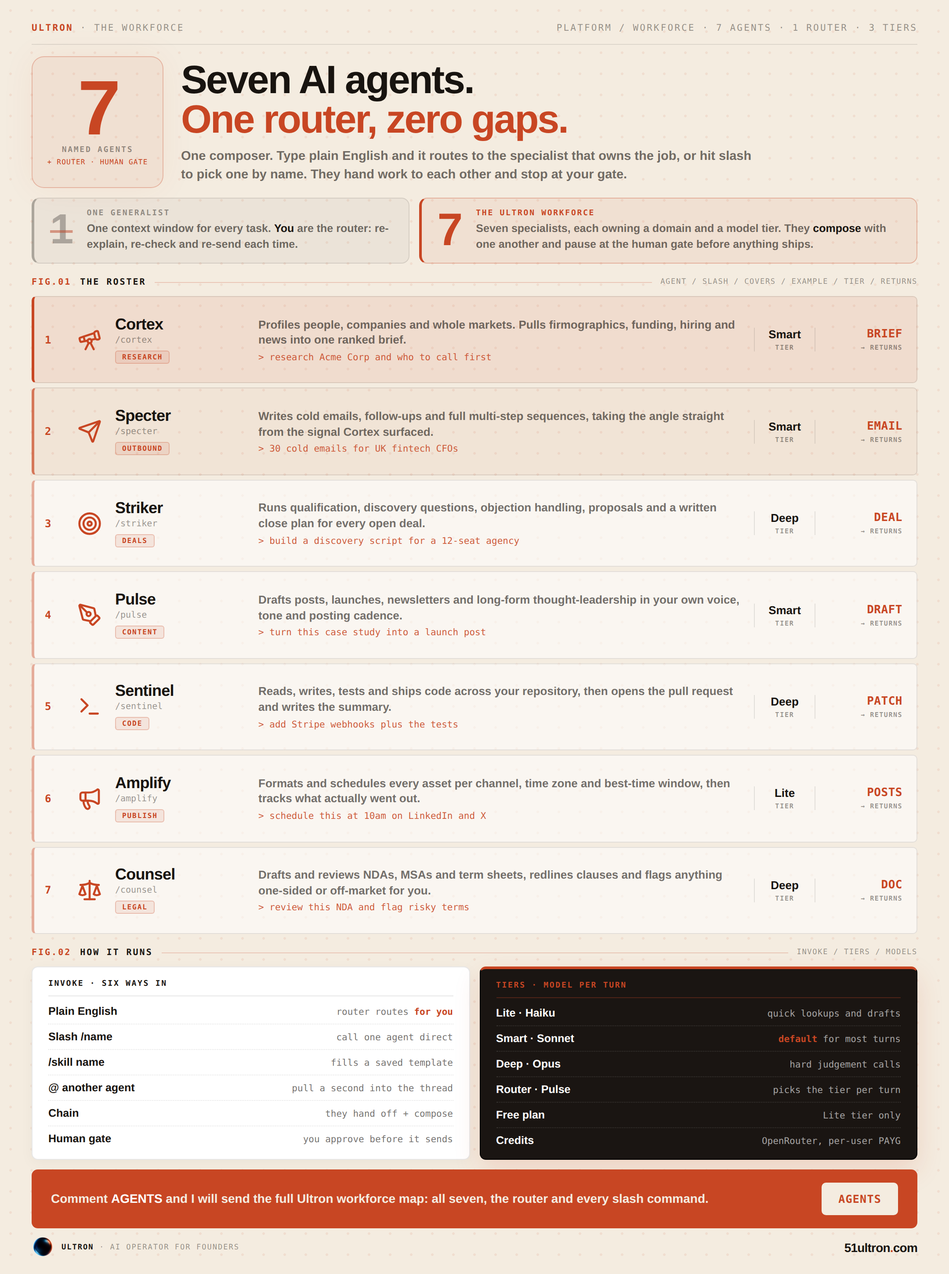
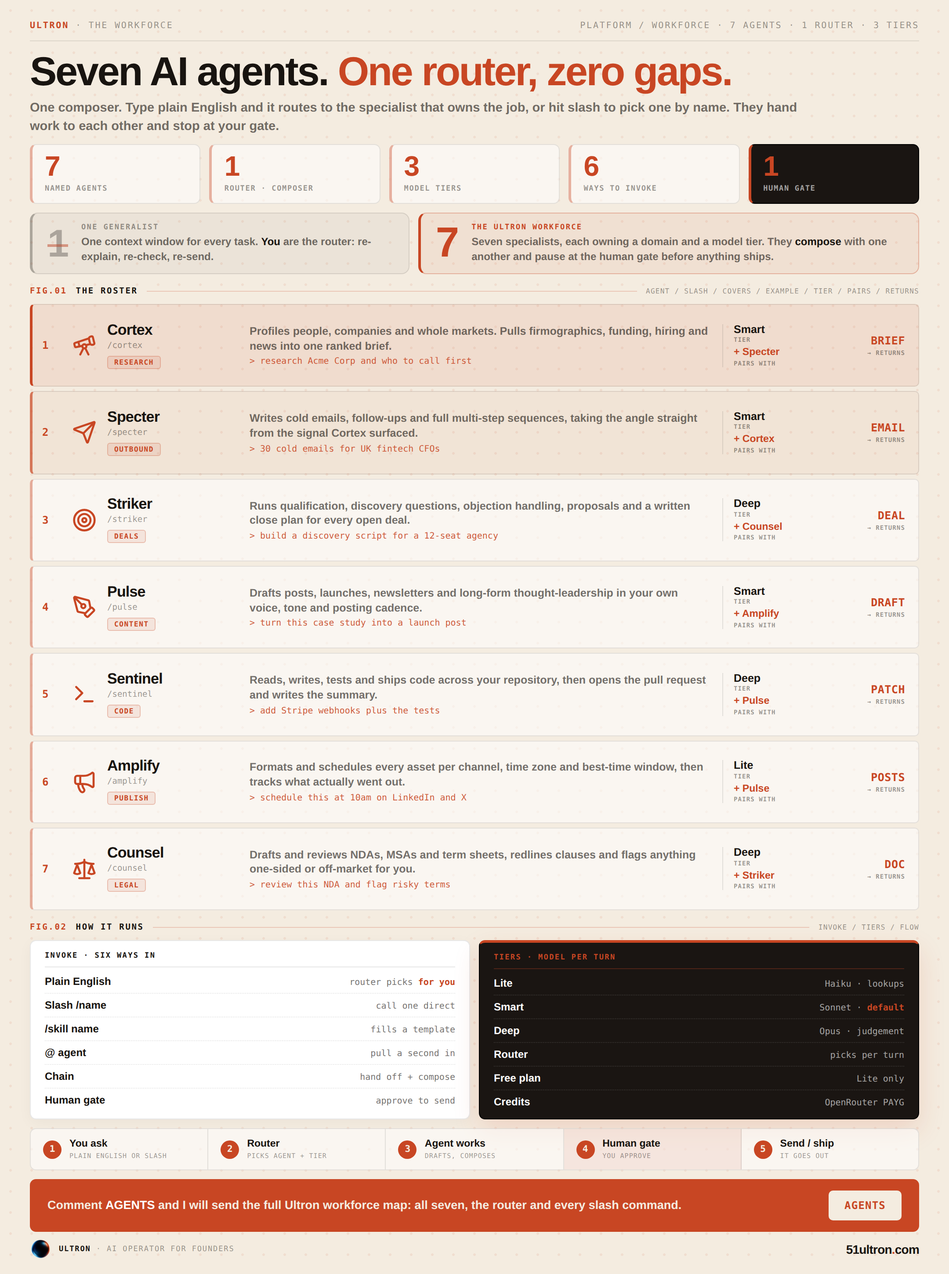
docs-04 workforce: max-density pass + align CLAUDE.md to 7-agent roster
Dashboard density (operator request):
- stat-tiles band under the hook (7 agents / 1 router / 3 tiers / 6 ways in / human gate)
- third FIG.02 element: full-width flow strip (ask > router > agent > human gate > send)
- extra per-row column: tier + pairs-with, beside returns
Same fixed boxes, 1080x1450, scrollHeight verified 1450, no forbidden chars.

CLAUDE.md alignment (operator-confirmed the seven-agent workforce doc is canonical):
- section 1 rewritten: seven agents with slash commands and roles, the router/
  composer, human gate, and Lite/Smart/Deep = Haiku/Sonnet/Opus tiers; PULSE is
  now content, the router does routing/model selection (supersedes old 5-agent list)
- section 5 campaign agent list and section 21 tool-name list extended to all seven

https://claude.ai/code/session_018fS7xMwDiJUxoNS3zo3BKw

diff --git a/content/docs-04-workforce-linkedin-dashboard.html b/content/docs-04-workforce-linkedin-dashboard.html
@@ -3,128 +3,132 @@
 <style>
 :root{--cream:#F4ECE0;--ink:#181410;--ink60:rgba(24,20,16,.62);--ink42:rgba(24,20,16,.44);--ink30:rgba(24,20,16,.3);--ink10:rgba(24,20,16,.1);--or:#C84623;--dark:#1a1512;}
 *{box-sizing:border-box;margin:0;padding:0;}body{background:#d9cdb8;font-family:'DM Sans',sans-serif;}
-.canvas{width:1080px;height:1450px;background:radial-gradient(rgba(200,70,35,.09) 1.4px,transparent 1.5px) 0 0/24px 24px,var(--cream);padding:26px 36px 18px;display:flex;flex-direction:column;color:var(--ink);overflow:hidden;position:relative;}
-.hd{flex-shrink:0;display:flex;justify-content:space-between;font-family:'DM Mono',monospace;font-size:10.5px;font-weight:500;letter-spacing:.15em;text-transform:uppercase;color:var(--ink42);padding-bottom:12px;border-bottom:1px solid var(--ink10);}
+.canvas{width:1080px;height:1450px;background:radial-gradient(rgba(200,70,35,.09) 1.4px,transparent 1.5px) 0 0/24px 24px,var(--cream);padding:24px 34px 16px;display:flex;flex-direction:column;color:var(--ink);overflow:hidden;position:relative;}
+.hd{flex-shrink:0;display:flex;justify-content:space-between;font-family:'DM Mono',monospace;font-size:10px;font-weight:500;letter-spacing:.14em;text-transform:uppercase;color:var(--ink42);padding-bottom:11px;border-bottom:1px solid var(--ink10);}
 .hd b{color:var(--or);font-weight:700;}
-.top{flex-shrink:0;display:flex;gap:20px;align-items:center;margin:13px 0 11px;}
-.stat-anchor{flex-shrink:0;width:150px;height:150px;display:flex;flex-direction:column;align-items:center;justify-content:center;background:rgba(200,70,35,.07);border:1.5px solid rgba(200,70,35,.28);border-radius:14px;box-shadow:0 0 40px rgba(200,70,35,.06);}
-.sa-num{font-weight:900;font-size:88px;color:var(--or);line-height:.78;letter-spacing:-4px;}
-.sa-label{font-family:'DM Mono',monospace;font-size:9px;font-weight:700;letter-spacing:.15em;text-transform:uppercase;color:var(--ink42);margin-top:9px;}
-.sa-sub{font-family:'DM Mono',monospace;font-size:8px;font-weight:500;letter-spacing:.08em;text-transform:uppercase;color:var(--or);margin-top:4px;}
-.hook{font-weight:900;font-size:45px;line-height:1.0;letter-spacing:-1.6px;}.hook .ac{color:var(--or);}
-.hook-sub{margin-top:10px;font-size:14.5px;font-weight:600;line-height:1.45;color:var(--ink60);max-width:660px;}
-.ba{flex-shrink:0;display:grid;grid-template-columns:1fr 1.32fr;gap:11px;margin-bottom:11px;}
-.ba-side{padding:12px 18px;border-radius:9px;display:flex;align-items:center;gap:16px;}
+.top{flex-shrink:0;margin:12px 0 10px;}
+.hook{font-weight:900;font-size:46px;line-height:.98;letter-spacing:-1.7px;}.hook .ac{color:var(--or);}
+.hook-sub{margin-top:9px;font-size:14.5px;font-weight:600;line-height:1.42;color:var(--ink60);max-width:880px;}
+.tiles{flex-shrink:0;display:grid;grid-template-columns:repeat(5,1fr);gap:10px;margin-bottom:10px;}
+.tile{background:rgba(255,255,255,.55);border:1px solid var(--ink10);border-left:3px solid rgba(200,70,35,.4);border-radius:7px;padding:11px 14px;}
+.tile.hot{background:var(--dark);border-color:#000;border-left-color:var(--or);}
+.tile-n{font-weight:900;font-size:32px;color:var(--or);line-height:.85;letter-spacing:-1.5px;}
+.tile-l{font-family:'DM Mono',monospace;font-size:8.5px;font-weight:700;letter-spacing:.1em;text-transform:uppercase;color:var(--ink42);margin-top:7px;}
+.tile.hot .tile-l{color:rgba(255,255,255,.6);}
+.ba{flex-shrink:0;display:grid;grid-template-columns:1fr 1.32fr;gap:10px;margin-bottom:10px;}
+.ba-side{padding:11px 17px;border-radius:9px;display:flex;align-items:center;gap:15px;}
 .ba-before{background:rgba(24,20,16,.04);border:1px solid var(--ink10);border-left:3px solid var(--ink30);}
 .ba-after{background:rgba(200,70,35,.07);border:1.5px solid rgba(200,70,35,.3);border-left:3px solid var(--or);}
 .ba-stat{font-weight:900;line-height:.85;letter-spacing:-1px;flex-shrink:0;}
-.ba-before .ba-stat{font-size:48px;color:var(--ink30);text-decoration:line-through;text-decoration-color:rgba(190,70,40,.5);text-decoration-thickness:3px;}
-.ba-after .ba-stat{font-size:52px;color:var(--or);}
-.ba-label{font-family:'DM Mono',monospace;font-size:9px;font-weight:700;letter-spacing:.15em;text-transform:uppercase;margin-bottom:4px;}
+.ba-before .ba-stat{font-size:44px;color:var(--ink30);text-decoration:line-through;text-decoration-color:rgba(190,70,40,.5);text-decoration-thickness:3px;}
+.ba-after .ba-stat{font-size:48px;color:var(--or);}
+.ba-label{font-family:'DM Mono',monospace;font-size:8.5px;font-weight:700;letter-spacing:.14em;text-transform:uppercase;margin-bottom:3px;}
 .ba-before .ba-label{color:var(--ink42);}.ba-after .ba-label{color:var(--or);}
-.ba-line{font-size:12.5px;font-weight:600;line-height:1.4;color:var(--ink60);}.ba-line b{color:var(--ink);font-weight:800;}
-.stage{flex-shrink:0;display:flex;align-items:center;gap:10px;height:20px;margin-bottom:6px;}
-.stage-n{font-family:'DM Mono',monospace;font-size:10px;font-weight:700;letter-spacing:.15em;text-transform:uppercase;color:var(--or);}
-.stage-t{font-family:'DM Mono',monospace;font-size:10px;font-weight:700;letter-spacing:.15em;text-transform:uppercase;color:var(--ink);}
+.ba-line{font-size:12px;font-weight:600;line-height:1.36;color:var(--ink60);}.ba-line b{color:var(--ink);font-weight:800;}
+.stage{flex-shrink:0;display:flex;align-items:center;gap:10px;height:18px;margin-bottom:6px;}
+.stage-n{font-family:'DM Mono',monospace;font-size:9.5px;font-weight:700;letter-spacing:.14em;text-transform:uppercase;color:var(--or);}
+.stage-t{font-family:'DM Mono',monospace;font-size:9.5px;font-weight:700;letter-spacing:.14em;text-transform:uppercase;color:var(--ink);}
 .stage-line{flex:1;height:1px;background:rgba(200,70,35,.22);}
-.stage-meta{font-family:'DM Mono',monospace;font-size:8.5px;font-weight:500;letter-spacing:.1em;text-transform:uppercase;color:var(--ink42);}
+.stage-meta{font-family:'DM Mono',monospace;font-size:8px;font-weight:500;letter-spacing:.08em;text-transform:uppercase;color:var(--ink42);}
 .roster{flex:1;display:flex;flex-direction:column;gap:5px;min-height:0;}
-.conn{flex:1;display:grid;grid-template-columns:24px 30px 150px 1fr 70px 86px;align-items:center;gap:13px;padding:0 16px 0 12px;background:rgba(255,255,255,.55);border:1px solid var(--ink10);border-left:3px solid rgba(200,70,35,.42);border-radius:5px;min-height:0;overflow:hidden;}
+.conn{flex:1;display:grid;grid-template-columns:22px 28px 150px 1fr 116px 80px;align-items:center;gap:12px;padding:0 15px 0 11px;background:rgba(255,255,255,.55);border:1px solid var(--ink10);border-left:3px solid rgba(200,70,35,.42);border-radius:5px;min-height:0;overflow:hidden;}
 .conn.hi{border-left-color:var(--or);background:rgba(200,70,35,.09);}.conn.hi2{border-left-color:rgba(200,70,35,.7);background:rgba(200,70,35,.05);}
 .conn-num{font-family:'DM Mono',monospace;font-size:12px;font-weight:700;color:var(--or);}
 .ci{width:28px;height:28px;display:flex;}.ci svg{width:100%;height:100%;}
 .conn-id{min-width:0;}
-.conn-name{font-size:18px;font-weight:800;letter-spacing:-.4px;color:var(--ink);line-height:1;}
-.conn-slash{font-family:'DM Mono',monospace;font-size:10px;font-weight:500;color:var(--ink42);margin-top:4px;}
-.conn-role{display:inline-block;font-family:'DM Mono',monospace;font-size:8px;font-weight:700;letter-spacing:.12em;text-transform:uppercase;color:var(--or);background:rgba(200,70,35,.1);border:1px solid rgba(200,70,35,.25);padding:2px 7px;border-radius:3px;margin-top:6px;}
+.conn-name{font-size:17px;font-weight:800;letter-spacing:-.4px;color:var(--ink);line-height:1;}
+.conn-slash{font-family:'DM Mono',monospace;font-size:9.5px;font-weight:500;color:var(--ink42);margin-top:4px;}
+.conn-role{display:inline-block;font-family:'DM Mono',monospace;font-size:8px;font-weight:700;letter-spacing:.1em;text-transform:uppercase;color:var(--or);background:rgba(200,70,35,.1);border:1px solid rgba(200,70,35,.25);padding:2px 7px;border-radius:3px;margin-top:6px;}
 .conn-body{min-width:0;}
-.conn-what{font-size:13px;font-weight:600;color:var(--ink60);line-height:1.36;}
-.conn-ex{font-family:'DM Mono',monospace;font-size:10.5px;font-weight:500;color:rgba(200,70,35,.88);margin-top:5px;white-space:nowrap;overflow:hidden;text-overflow:ellipsis;}
-.conn-ops{text-align:center;border-left:1px solid var(--ink10);border-right:1px solid var(--ink10);padding:0 4px;}
-.ops-tier{font-size:13px;font-weight:800;color:var(--ink);}
-.ops-tlab{font-family:'DM Mono',monospace;font-size:7.5px;font-weight:600;letter-spacing:.12em;text-transform:uppercase;color:var(--ink42);margin-top:3px;}
+.conn-what{font-size:12.5px;font-weight:600;color:var(--ink60);line-height:1.34;}
+.conn-ex{font-family:'DM Mono',monospace;font-size:10px;font-weight:500;color:rgba(200,70,35,.88);margin-top:4px;white-space:nowrap;overflow:hidden;text-overflow:ellipsis;}
+.conn-ops{display:flex;flex-direction:column;gap:5px;border-left:1px solid var(--ink10);padding-left:12px;min-width:0;}
+.ops-row{display:flex;flex-direction:column;}
+.ops-v{font-size:12.5px;font-weight:800;color:var(--ink);line-height:1;}
+.ops-v.pair{color:var(--or);font-size:11.5px;}
+.ops-l{font-family:'DM Mono',monospace;font-size:7px;font-weight:600;letter-spacing:.08em;text-transform:uppercase;color:var(--ink42);margin-top:2px;}
 .conn-ret{text-align:right;}
-.ret-art{font-family:'DM Mono',monospace;font-size:13px;font-weight:700;color:var(--or);letter-spacing:.02em;}
-.ret-lab{font-family:'DM Mono',monospace;font-size:7.5px;font-weight:600;letter-spacing:.1em;text-transform:uppercase;color:var(--ink42);margin-top:3px;}
-.cfg-grid{flex-shrink:0;display:grid;grid-template-columns:1fr 1fr;gap:11px;}
-.cfg{border-radius:7px;padding:14px 18px;}
+.ret-art{font-family:'DM Mono',monospace;font-size:12.5px;font-weight:700;color:var(--or);letter-spacing:.02em;}
+.ret-lab{font-family:'DM Mono',monospace;font-size:7px;font-weight:600;letter-spacing:.08em;text-transform:uppercase;color:var(--ink42);margin-top:3px;}
+.cfg-grid{flex-shrink:0;display:grid;grid-template-columns:1fr 1fr;gap:10px;}
+.cfg{border-radius:7px;padding:12px 16px;}
 .cfg.lite{background:#fff;border:1px solid var(--ink10);box-shadow:0 4px 16px rgba(0,0,0,.04);}
 .cfg.hot{background:var(--dark);border:1px solid #000;border-top:3px solid var(--or);box-shadow:0 12px 30px rgba(200,70,35,.15);}
-.cfg-title{font-family:'DM Mono',monospace;font-size:9px;font-weight:700;letter-spacing:.15em;text-transform:uppercase;margin-bottom:10px;padding-bottom:8px;border-bottom:1px solid var(--ink10);}
+.cfg-title{font-family:'DM Mono',monospace;font-size:8.5px;font-weight:700;letter-spacing:.14em;text-transform:uppercase;margin-bottom:9px;padding-bottom:7px;border-bottom:1px solid var(--ink10);}
 .cfg.lite .cfg-title{color:var(--ink);}.cfg.hot .cfg-title{color:var(--or);border-bottom-color:rgba(200,70,35,.3);}
-.cfg-row{display:flex;align-items:baseline;justify-content:space-between;gap:10px;padding-bottom:7px;margin-bottom:7px;border-bottom:1px dotted var(--ink10);}
+.cfg-row{display:flex;align-items:baseline;justify-content:space-between;gap:10px;padding-bottom:6px;margin-bottom:6px;border-bottom:1px dotted var(--ink10);}
 .cfg-row:last-child{border-bottom:none;padding-bottom:0;margin-bottom:0;}
 .cfg.hot .cfg-row{border-bottom-color:rgba(255,255,255,.12);}
-.cfg-key{font-size:12.5px;font-weight:700;flex-shrink:0;}.cfg.lite .cfg-key{color:var(--ink);}.cfg.hot .cfg-key{color:#fff;}
-.cfg-val{font-family:'DM Mono',monospace;font-size:10.5px;font-weight:500;text-align:right;}.cfg.lite .cfg-val{color:var(--ink60);}.cfg.hot .cfg-val{color:rgba(255,255,255,.62);}
+.cfg-key{font-size:12px;font-weight:700;flex-shrink:0;}.cfg.lite .cfg-key{color:var(--ink);}.cfg.hot .cfg-key{color:#fff;}
+.cfg-val{font-family:'DM Mono',monospace;font-size:10px;font-weight:500;text-align:right;}.cfg.lite .cfg-val{color:var(--ink60);}.cfg.hot .cfg-val{color:rgba(255,255,255,.62);}
 .cfg-val b{color:var(--or);font-weight:700;}
-.cta{flex-shrink:0;background:var(--or);border-radius:7px;padding:15px 22px;display:flex;align-items:center;justify-content:space-between;gap:16px;margin-top:11px;}
-.cta-copy{font-size:14px;font-weight:700;color:var(--cream);line-height:1.4;}.cta-copy b{color:#fff;font-weight:900;}
-.cta-badge{font-family:'DM Mono',monospace;font-size:12.5px;font-weight:700;color:var(--or);background:var(--cream);padding:11px 19px;border-radius:5px;flex-shrink:0;letter-spacing:.05em;}
-.footer{flex-shrink:0;height:34px;display:flex;align-items:center;justify-content:space-between;padding-top:9px;}
-.fl{display:flex;align-items:center;gap:9px;}.fl img{width:25px;height:25px;border-radius:50%;}
-.ftx{font-family:'DM Mono',monospace;font-size:8.5px;font-weight:500;letter-spacing:.12em;text-transform:uppercase;color:var(--ink42);}.ftx b{color:var(--ink);font-weight:700;}
+.flow{flex-shrink:0;display:flex;align-items:stretch;background:rgba(255,255,255,.55);border:1px solid var(--ink10);border-radius:7px;overflow:hidden;margin-top:10px;}
+.flow-step{flex:1;padding:11px 14px;display:flex;align-items:center;gap:9px;border-right:1px solid var(--ink10);}
+.flow-step:last-child{border-right:none;}
+.flow-step.hot{background:rgba(200,70,35,.09);}
+.flow-num{width:21px;height:21px;border-radius:50%;background:var(--or);color:var(--cream);font-family:'DM Mono',monospace;font-size:10.5px;font-weight:700;display:flex;align-items:center;justify-content:center;flex-shrink:0;}
+.flow-tx{font-size:11.5px;font-weight:800;color:var(--ink);line-height:1.1;}
+.flow-tx span{display:block;font-family:'DM Mono',monospace;font-size:7.5px;font-weight:500;color:var(--ink42);text-transform:uppercase;letter-spacing:.07em;margin-top:3px;}
+.cta{flex-shrink:0;background:var(--or);border-radius:7px;padding:13px 20px;display:flex;align-items:center;justify-content:space-between;gap:16px;margin-top:10px;}
+.cta-copy{font-size:13.5px;font-weight:700;color:var(--cream);line-height:1.38;}.cta-copy b{color:#fff;font-weight:900;}
+.cta-badge{font-family:'DM Mono',monospace;font-size:12px;font-weight:700;color:var(--or);background:var(--cream);padding:10px 18px;border-radius:5px;flex-shrink:0;letter-spacing:.05em;}
+.footer{flex-shrink:0;height:32px;display:flex;align-items:center;justify-content:space-between;padding-top:8px;}
+.fl{display:flex;align-items:center;gap:9px;}.fl img{width:24px;height:24px;border-radius:50%;}
+.ftx{font-family:'DM Mono',monospace;font-size:8.5px;font-weight:500;letter-spacing:.11em;text-transform:uppercase;color:var(--ink42);}.ftx b{color:var(--ink);font-weight:700;}
 .furl{font-weight:900;font-size:14px;letter-spacing:-.4px;color:var(--ink);}.furl em{color:var(--or);font-style:normal;}
 </style></head><body>
 <div class="canvas" id="artifact">
   <div class="hd"><div><b>ULTRON</b> &middot; THE WORKFORCE</div><div>PLATFORM / WORKFORCE &middot; 7 AGENTS &middot; 1 ROUTER &middot; 3 TIERS</div></div>
-  <div class="top">
-    <div class="stat-anchor"><div class="sa-num">7</div><div class="sa-label">Named agents</div><div class="sa-sub">+ router &middot; human gate</div></div>
-    <div><div class="hook">Seven AI agents.<br><span class="ac">One router, zero gaps.</span></div>
-      <div class="hook-sub">One composer. Type plain English and it routes to the specialist that owns the job, or hit slash to pick one by name. They hand work to each other and stop at your gate.</div></div>
-  </div>
+  <div class="top"><div class="hook">Seven AI agents. <span class="ac">One router, zero gaps.</span></div>
+    <div class="hook-sub">One composer. Type plain English and it routes to the specialist that owns the job, or hit slash to pick one by name. They hand work to each other and stop at your gate.</div></div>
+  <div class="tiles"><div class="tile "><div class="tile-n">7</div><div class="tile-l">Named agents</div></div><div class="tile "><div class="tile-n">1</div><div class="tile-l">Router &middot; composer</div></div><div class="tile "><div class="tile-n">3</div><div class="tile-l">Model tiers</div></div><div class="tile "><div class="tile-n">6</div><div class="tile-l">Ways to invoke</div></div><div class="tile hot"><div class="tile-n">1</div><div class="tile-l">Human gate</div></div></div>
   <div class="ba">
-    <div class="ba-side ba-before"><div class="ba-stat">1</div><div><div class="ba-label">One generalist</div><div class="ba-line">One context window for every task. <b>You</b> are the router: re-explain, re-check and re-send each time.</div></div></div>
+    <div class="ba-side ba-before"><div class="ba-stat">1</div><div><div class="ba-label">One generalist</div><div class="ba-line">One context window for every task. <b>You</b> are the router: re-explain, re-check, re-send.</div></div></div>
     <div class="ba-side ba-after"><div class="ba-stat">7</div><div><div class="ba-label">The Ultron workforce</div><div class="ba-line">Seven specialists, each owning a domain and a model tier. They <b>compose</b> with one another and pause at the human gate before anything ships.</div></div></div>
   </div>
-  <div class="stage"><span class="stage-n">Fig.01</span><span class="stage-t">The roster</span><span class="stage-line"></span><span class="stage-meta">agent / slash / covers / example / tier / returns</span></div>
+  <div class="stage"><span class="stage-n">Fig.01</span><span class="stage-t">The roster</span><span class="stage-line"></span><span class="stage-meta">agent / slash / covers / example / tier / pairs / returns</span></div>
   <div class="roster"><div class="conn hi"><div class="conn-num">1</div>
       <div class="ci"><svg xmlns="http://www.w3.org/2000/svg" width="1em" height="1em" viewBox="0 0 24 24"><g fill="none" stroke="#C84623" stroke-linecap="round" stroke-linejoin="round" stroke-width="2"><path d="m10.065 12.493l-6.18 1.318a.934.934 0 0 1-1.108-.702l-.537-2.15a1.07 1.07 0 0 1 .691-1.265l13.504-4.44m-2.875 6.493l4.332-.924M16 21l-3.105-6.21"/><path d="M16.485 5.94a2 2 0 0 1 1.455-2.425l1.09-.272a1 1 0 0 1 1.212.727l1.515 6.06a1 1 0 0 1-.727 1.213l-1.09.272a2 2 0 0 1-2.425-1.455zM6.158 8.633l1.114 4.456M8 21l3.105-6.21"/><circle cx="12" cy="13" r="2"/></g></svg></div>
       <div class="conn-id"><div class="conn-name">Cortex</div><div class="conn-slash">/cortex</div><div class="conn-role">Research</div></div>
       <div class="conn-body"><div class="conn-what">Profiles people, companies and whole markets. Pulls firmographics, funding, hiring and news into one ranked brief.</div><div class="conn-ex">&gt; research Acme Corp and who to call first</div></div>
-      <div class="conn-ops"><div class="ops-tier">Smart</div><div class="ops-tlab">tier</div></div>
+      <div class="conn-ops"><div class="ops-row"><span class="ops-v">Smart</span><span class="ops-l">tier</span></div><div class="ops-row"><span class="ops-v pair">+ Specter</span><span class="ops-l">pairs with</span></div></div>
       <div class="conn-ret"><div class="ret-art">BRIEF</div><div class="ret-lab">&rarr; returns</div></div></div><div class="conn hi2"><div class="conn-num">2</div>
       <div class="ci"><svg xmlns="http://www.w3.org/2000/svg" width="1em" height="1em" viewBox="0 0 24 24"><path fill="none" stroke="#C84623" stroke-linecap="round" stroke-linejoin="round" stroke-width="2" d="M14.536 21.686a.5.5 0 0 0 .937-.024l6.5-19a.496.496 0 0 0-.635-.635l-19 6.5a.5.5 0 0 0-.024.937l7.93 3.18a2 2 0 0 1 1.112 1.11zm7.318-19.539l-10.94 10.939"/></svg></div>
       <div class="conn-id"><div class="conn-name">Specter</div><div class="conn-slash">/specter</div><div class="conn-role">Outbound</div></div>
       <div class="conn-body"><div class="conn-what">Writes cold emails, follow-ups and full multi-step sequences, taking the angle straight from the signal Cortex surfaced.</div><div class="conn-ex">&gt; 30 cold emails for UK fintech CFOs</div></div>
-      <div class="conn-ops"><div class="ops-tier">Smart</div><div class="ops-tlab">tier</div></div>
+      <div class="conn-ops"><div class="ops-row"><span class="ops-v">Smart</span><span class="ops-l">tier</span></div><div class="ops-row"><span class="ops-v pair">+ Cortex</span><span class="ops-l">pairs with</span></div></div>
       <div class="conn-ret"><div class="ret-art">EMAIL</div><div class="ret-lab">&rarr; returns</div></div></div><div class="conn "><div class="conn-num">3</div>
       <div class="ci"><svg xmlns="http://www.w3.org/2000/svg" width="1em" height="1em" viewBox="0 0 24 24"><g fill="none" stroke="#C84623" stroke-linecap="round" stroke-linejoin="round" stroke-width="2"><circle cx="12" cy="12" r="10"/><circle cx="12" cy="12" r="6"/><circle cx="12" cy="12" r="2"/></g></svg></div>
       <div class="conn-id"><div class="conn-name">Striker</div><div class="conn-slash">/striker</div><div class="conn-role">Deals</div></div>
       <div class="conn-body"><div class="conn-what">Runs qualification, discovery questions, objection handling, proposals and a written close plan for every open deal.</div><div class="conn-ex">&gt; build a discovery script for a 12-seat agency</div></div>
-      <div class="conn-ops"><div class="ops-tier">Deep</div><div class="ops-tlab">tier</div></div>
+      <div class="conn-ops"><div class="ops-row"><span class="ops-v">Deep</span><span class="ops-l">tier</span></div><div class="ops-row"><span class="ops-v pair">+ Counsel</span><span class="ops-l">pairs with</span></div></div>
       <div class="conn-ret"><div class="ret-art">DEAL</div><div class="ret-lab">&rarr; returns</div></div></div><div class="conn "><div class="conn-num">4</div>
       <div class="ci"><svg xmlns="http://www.w3.org/2000/svg" width="1em" height="1em" viewBox="0 0 24 24"><g fill="none" stroke="#C84623" stroke-linecap="round" stroke-linejoin="round" stroke-width="2"><path d="M15.707 21.293a1 1 0 0 1-1.414 0l-1.586-1.586a1 1 0 0 1 0-1.414l5.586-5.586a1 1 0 0 1 1.414 0l1.586 1.586a1 1 0 0 1 0 1.414z"/><path d="m18 13l-1.375-6.874a1 1 0 0 0-.746-.776L3.235 2.028a1 1 0 0 0-1.207 1.207L5.35 15.879a1 1 0 0 0 .776.746L13 18M2.3 2.3l7.286 7.286"/><circle cx="11" cy="11" r="2"/></g></svg></div>
       <div class="conn-id"><div class="conn-name">Pulse</div><div class="conn-slash">/pulse</div><div class="conn-role">Content</div></div>
       <div class="conn-body"><div class="conn-what">Drafts posts, launches, newsletters and long-form thought-leadership in your own voice, tone and posting cadence.</div><div class="conn-ex">&gt; turn this case study into a launch post</div></div>
-      <div class="conn-ops"><div class="ops-tier">Smart</div><div class="ops-tlab">tier</div></div>
+      <div class="conn-ops"><div class="ops-row"><span class="ops-v">Smart</span><span class="ops-l">tier</span></div><div class="ops-row"><span class="ops-v pair">+ Amplify</span><span class="ops-l">pairs with</span></div></div>
       <div class="conn-ret"><div class="ret-art">DRAFT</div><div class="ret-lab">&rarr; returns</div></div></div><div class="conn "><div class="conn-num">5</div>
       <div class="ci"><svg xmlns="http://www.w3.org/2000/svg" width="1em" height="1em" viewBox="0 0 24 24"><path fill="none" stroke="#C84623" stroke-linecap="round" stroke-linejoin="round" stroke-width="2" d="M12 19h8M4 17l6-6l-6-6"/></svg></div>
       <div class="conn-id"><div class="conn-name">Sentinel</div><div class="conn-slash">/sentinel</div><div class="conn-role">Code</div></div>
       <div class="conn-body"><div class="conn-what">Reads, writes, tests and ships code across your repository, then opens the pull request and writes the summary.</div><div class="conn-ex">&gt; add Stripe webhooks plus the tests</div></div>
-      <div class="conn-ops"><div class="ops-tier">Deep</div><div class="ops-tlab">tier</div></div>
+      <div class="conn-ops"><div class="ops-row"><span class="ops-v">Deep</span><span class="ops-l">tier</span></div><div class="ops-row"><span class="ops-v pair">+ Pulse</span><span class="ops-l">pairs with</span></div></div>
       <div class="conn-ret"><div class="ret-art">PATCH</div><div class="ret-lab">&rarr; returns</div></div></div><div class="conn "><div class="conn-num">6</div>
       <div class="ci"><svg xmlns="http://www.w3.org/2000/svg" width="1em" height="1em" viewBox="0 0 24 24"><g fill="none" stroke="#C84623" stroke-linecap="round" stroke-linejoin="round" stroke-width="2"><path d="M11 6a13 13 0 0 0 8.4-2.8A1 1 0 0 1 21 4v12a1 1 0 0 1-1.6.8A13 13 0 0 0 11 14H5a2 2 0 0 1-2-2V8a2 2 0 0 1 2-2z"/><path d="M6 14a12 12 0 0 0 2.4 7.2a2 2 0 0 0 3.2-2.4A8 8 0 0 1 10 14M8 6v8"/></g></svg></div>
       <div class="conn-id"><div class="conn-name">Amplify</div><div class="conn-slash">/amplify</div><div class="conn-role">Publish</div></div>
       <div class="conn-body"><div class="conn-what">Formats and schedules every asset per channel, time zone and best-time window, then tracks what actually went out.</div><div class="conn-ex">&gt; schedule this at 10am on LinkedIn and X</div></div>
-      <div class="conn-ops"><div class="ops-tier">Lite</div><div class="ops-tlab">tier</div></div>
+      <div class="conn-ops"><div class="ops-row"><span class="ops-v">Lite</span><span class="ops-l">tier</span></div><div class="ops-row"><span class="ops-v pair">+ Pulse</span><span class="ops-l">pairs with</span></div></div>
       <div class="conn-ret"><div class="ret-art">POSTS</div><div class="ret-lab">&rarr; returns</div></div></div><div class="conn "><div class="conn-num">7</div>
       <div class="ci"><svg xmlns="http://www.w3.org/2000/svg" width="1em" height="1em" viewBox="0 0 24 24"><g fill="none" stroke="#C84623" stroke-linecap="round" stroke-linejoin="round" stroke-width="2"><path d="M12 3v18m7-13l3 8a5 5 0 0 1-6 0zV7"/><path d="M3 7h1a17 17 0 0 0 8-2a17 17 0 0 0 8 2h1M5 8l3 8a5 5 0 0 1-6 0zV7m2 14h10"/></g></svg></div>
       <div class="conn-id"><div class="conn-name">Counsel</div><div class="conn-slash">/counsel</div><div class="conn-role">Legal</div></div>
       <div class="conn-body"><div class="conn-what">Drafts and reviews NDAs, MSAs and term sheets, redlines clauses and flags anything one-sided or off-market for you.</div><div class="conn-ex">&gt; review this NDA and flag risky terms</div></div>
-      <div class="conn-ops"><div class="ops-tier">Deep</div><div class="ops-tlab">tier</div></div>
+      <div class="conn-ops"><div class="ops-row"><span class="ops-v">Deep</span><span class="ops-l">tier</span></div><div class="ops-row"><span class="ops-v pair">+ Striker</span><span class="ops-l">pairs with</span></div></div>
       <div class="conn-ret"><div class="ret-art">DOC</div><div class="ret-lab">&rarr; returns</div></div></div></div>
-  <div class="stage" style="margin-top:11px;"><span class="stage-n">Fig.02</span><span class="stage-t">How it runs</span><span class="stage-line"></span><span class="stage-meta">invoke / tiers / models</span></div>
+  <div class="stage" style="margin-top:10px;"><span class="stage-n">Fig.02</span><span class="stage-t">How it runs</span><span class="stage-line"></span><span class="stage-meta">invoke / tiers / flow</span></div>
   <div class="cfg-grid">
-    <div class="cfg lite"><div class="cfg-title">Invoke &middot; six ways in</div><div class="cfg-row"><span class="cfg-key">Plain English</span><span class="cfg-val">router routes <b>for you</b></span></div><div class="cfg-row"><span class="cfg-key">Slash /name</span><span class="cfg-val">call one agent direct</span></div><div class="cfg-row"><span class="cfg-key">/skill name</span><span class="cfg-val">fills a saved template</span></div><div class="cfg-row"><span class="cfg-key">@ another agent</span><span class="cfg-val">pull a second into the thread</span></div><div class="cfg-row"><span class="cfg-key">Chain</span><span class="cfg-val">they hand off + compose</span></div><div class="cfg-row"><span class="cfg-key">Human gate</span><span class="cfg-val">you approve before it sends</span></div></div>
-    <div class="cfg hot"><div class="cfg-title">Tiers &middot; model per turn</div><div class="cfg-row"><span class="cfg-key">Lite &middot; Haiku</span><span class="cfg-val">quick lookups and drafts</span></div><div class="cfg-row"><span class="cfg-key">Smart &middot; Sonnet</span><span class="cfg-val"><b>default</b> for most turns</span></div><div class="cfg-row"><span class="cfg-key">Deep &middot; Opus</span><span class="cfg-val">hard judgement calls</span></div><div class="cfg-row"><span class="cfg-key">Router &middot; Pulse</span><span class="cfg-val">picks the tier per turn</span></div><div class="cfg-row"><span class="cfg-key">Free plan</span><span class="cfg-val">Lite tier only</span></div><div class="cfg-row"><span class="cfg-key">Credits</span><span class="cfg-val">OpenRouter, per-user PAYG</span></div></div>
+    <div class="cfg lite"><div class="cfg-title">Invoke &middot; six ways in</div><div class="cfg-row"><span class="cfg-key">Plain English</span><span class="cfg-val">router picks <b>for you</b></span></div><div class="cfg-row"><span class="cfg-key">Slash /name</span><span class="cfg-val">call one direct</span></div><div class="cfg-row"><span class="cfg-key">/skill name</span><span class="cfg-val">fills a template</span></div><div class="cfg-row"><span class="cfg-key">@ agent</span><span class="cfg-val">pull a second in</span></div><div class="cfg-row"><span class="cfg-key">Chain</span><span class="cfg-val">hand off + compose</span></div><div class="cfg-row"><span class="cfg-key">Human gate</span><span class="cfg-val">approve to send</span></div></div>
+    <div class="cfg hot"><div class="cfg-title">Tiers &middot; model per turn</div><div class="cfg-row"><span class="cfg-key">Lite</span><span class="cfg-val">Haiku &middot; lookups</span></div><div class="cfg-row"><span class="cfg-key">Smart</span><span class="cfg-val">Sonnet &middot; <b>default</b></span></div><div class="cfg-row"><span class="cfg-key">Deep</span><span class="cfg-val">Opus &middot; judgement</span></div><div class="cfg-row"><span class="cfg-key">Router</span><span class="cfg-val">picks per turn</span></div><div class="cfg-row"><span class="cfg-key">Free plan</span><span class="cfg-val">Lite only</span></div><div class="cfg-row"><span class="cfg-key">Credits</span><span class="cfg-val">OpenRouter PAYG</span></div></div>
   </div>
-  <div class="cta">
-    <div class="cta-copy">Comment <b>AGENTS</b> and I will send the full Ultron workforce map: all seven, the router and every slash command.</div>
-    <div class="cta-badge">AGENTS</div>
-  </div>
-  <div class="footer">
-    <div class="fl"><img src="__LOGO_URI__"><div class="ftx"><b>ULTRON</b> &middot; AI OPERATOR FOR FOUNDERS</div></div>
-    <div class="furl">51ultron<em>.</em>com</div>
-  </div>
+  <div class="flow"><div class="flow-step "><div class="flow-num">1</div><div class="flow-tx">You ask<span>plain english or slash</span></div></div><div class="flow-step "><div class="flow-num">2</div><div class="flow-tx">Router<span>picks agent + tier</span></div></div><div class="flow-step "><div class="flow-num">3</div><div class="flow-tx">Agent works<span>drafts, composes</span></div></div><div class="flow-step hot"><div class="flow-num">4</div><div class="flow-tx">Human gate<span>you approve</span></div></div><div class="flow-step "><div class="flow-num">5</div><div class="flow-tx">Send / ship<span>it goes out</span></div></div></div>
+  <div class="cta"><div class="cta-copy">Comment <b>AGENTS</b> and I will send the full Ultron workforce map: all seven, the router and every slash command.</div><div class="cta-badge">AGENTS</div></div>
+  <div class="footer"><div class="fl"><img src="__LOGO_URI__"><div class="ftx"><b>ULTRON</b> &middot; AI OPERATOR FOR FOUNDERS</div></div><div class="furl">51ultron<em>.</em>com</div></div>
 </div></body></html>

diff --git a/CLAUDE.md b/CLAUDE.md
@@ -36,14 +36,21 @@ These meta-rules sit above everything else in this file:
 
 **Founder & operator:** Tibi Serbaneci (CEO Ultron, NexityNetwork). Co-founder Catalin Fetean. InnovX accelerator cohort.
 
-**Five Ultron agents:**
-- **CORTEX** — ICP scoring
-- **SPECTER** — research/enrichment
-- **STRIKER** — copywriting/messaging
-- **PULSE** — routing/model selection (Haiku vs Sonnet vs Opus)
-- **SENTINEL** — human QA / audit / recovery layer
+**Seven Ultron agents** (each callable by name with a slash command, or auto-routed):
+- **CORTEX** (`/cortex`) — research: profiles people, companies and markets into one ranked brief
+- **SPECTER** (`/specter`) — outbound: cold emails, follow-ups and multi-step sequences
+- **STRIKER** (`/striker`) — deals: qualification, discovery, objection handling, proposals, close plans
+- **PULSE** (`/pulse`) — content: posts, launches, newsletters and thought-leadership in your voice
+- **SENTINEL** (`/sentinel`) — code: reads, writes, tests and ships code, opens the PR
+- **AMPLIFY** (`/amplify`) — publishing: formats and schedules each asset per channel and time zone
+- **COUNSEL** (`/counsel`) — legal: drafts and reviews NDAs, MSAs and term sheets, flags risk
 
-Plus **HUMAN GATE**: human approval before send.
+Plus the **ROUTER** (the composer): type plain English and it routes to the agent that owns the job, picks the model tier, and lets agents hand off to and compose with each other.
+Plus **HUMAN GATE**: human approval before anything sends.
+
+**Model tiers (the router picks one per turn):** Lite = Haiku (quick lookups), Smart = Sonnet (default), Deep = Opus (hard judgement). Free plan = Lite only; paid = credits via OpenRouter.
+
+> Roster updated 2026-06-04 (operator-confirmed): supersedes the earlier five-agent list (CORTEX=ICP / SPECTER=research / PULSE=routing). PULSE is now the content agent; the ROUTER does routing and model selection.
 
 **Pricing tiers:**
 - Starter: free
@@ -158,7 +165,7 @@ content/
 
 **Campaign routing:**
 - **6 lead-magnet posts** (triggers: STACK / FOCUS / AUDIT / ICP / 100) → PDF
-- **14 direct-Ultron posts** (agents: CORTEX / SPECTER / STRIKER / PULSE / SENTINEL)
+- **14 direct-Ultron posts** (agents: CORTEX / SPECTER / STRIKER / PULSE / SENTINEL / AMPLIFY / COUNSEL)
 - **Post 17 EXCLUDED** from campaign
 
 **CTA rule:** never reference invented documents. Only real links to confirmed Ultron techniques or lead-magnet PDFs that already exist.
@@ -822,7 +829,7 @@ OpenRouter middleware for per-user credit provisioning. BYOK removed from docume
 - Operator voice: "I sent", "I tested", "I killed", "I built", "I let Claude"
 - Open counter-intuitive statements ("This had nothing to do with X")
 - Self-citation of your own real results only
-- Tool names: Claude, SPECTER, STRIKER, CORTEX, PULSE, SENTINEL
+- Tool names: Claude, CORTEX, SPECTER, STRIKER, PULSE, SENTINEL, AMPLIFY, COUNSEL
 - Brand terminology: "lead magnet", "workflow", "audit prompt", "founder GTM"
 - Concrete actions: "Drop [KEYWORD]", "Comment below", "DM me"
 - ICP filter language: "If you are a founder running GTM alone…"

diff --git a/analysis/reference-layouts.md b/analysis/reference-layouts.md
@@ -45,4 +45,4 @@
 
 ## Archetype usage log
 - docs-03 chat — (my default 3-col card grid — NOT from this menu — to be reworked)
-- docs-04 workforce — A5 dense dashboard, CLONED from script-37 structure, REALNUMBERS light palette, DM Sans/Mono
+- docs-04 workforce — A5 dense dashboard, CLONED from script-37, REALNUMBERS light, DM Sans/Mono. Max-density pass: stat-tiles band + 7-col roster (tier/pairs/returns) + flow strip. Roster = 7 agents (CLAUDE.md §1 aligned 2026-06-04).
